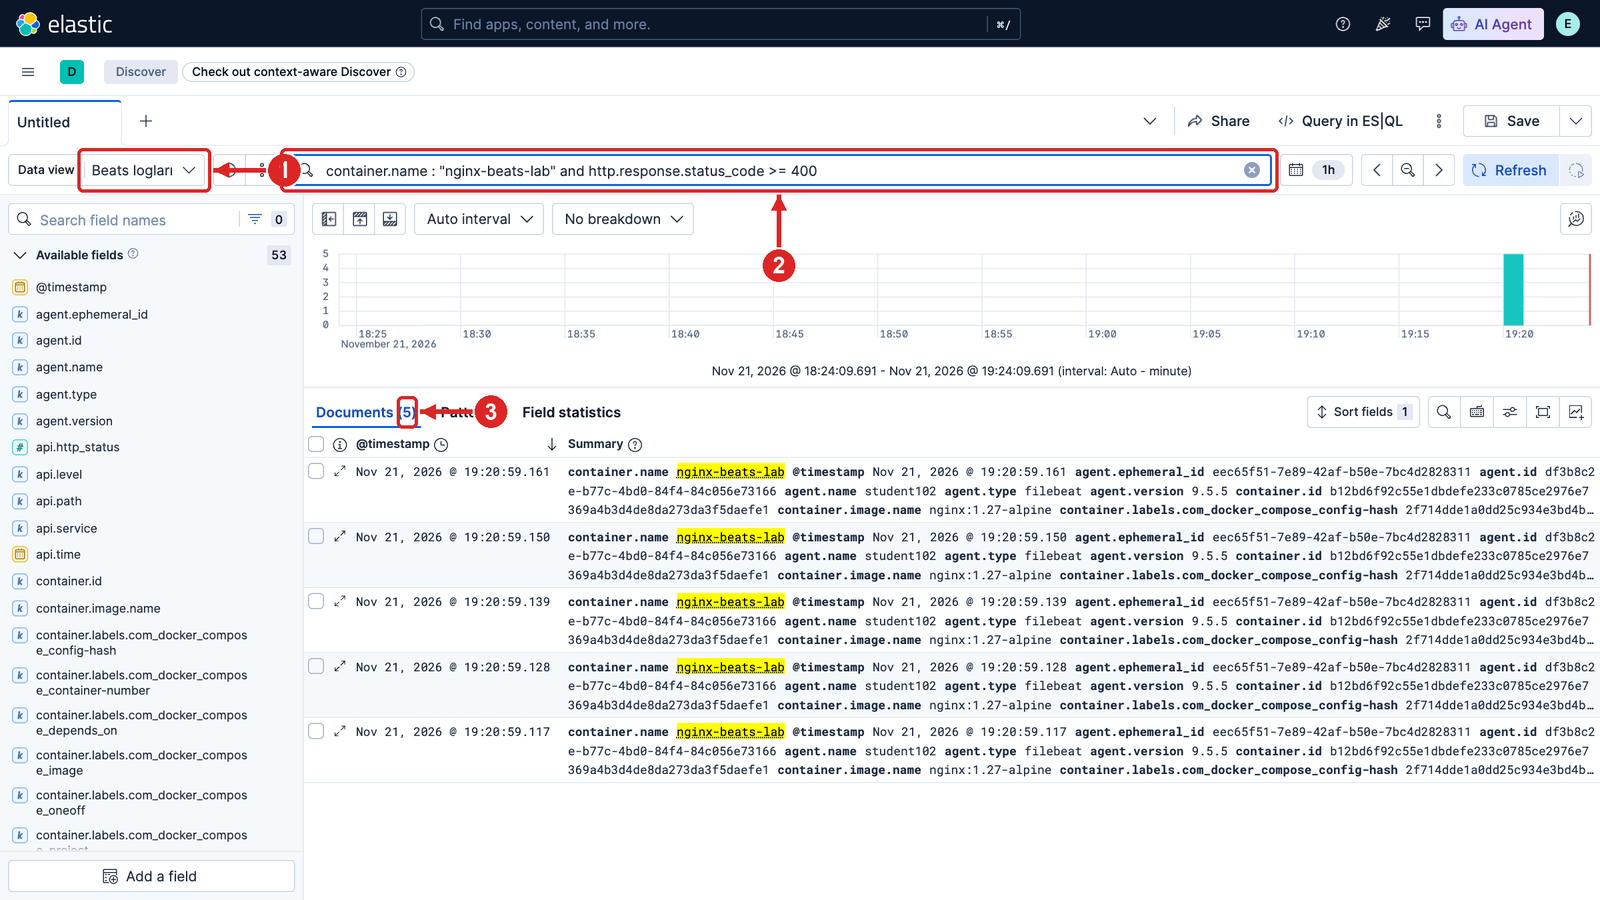
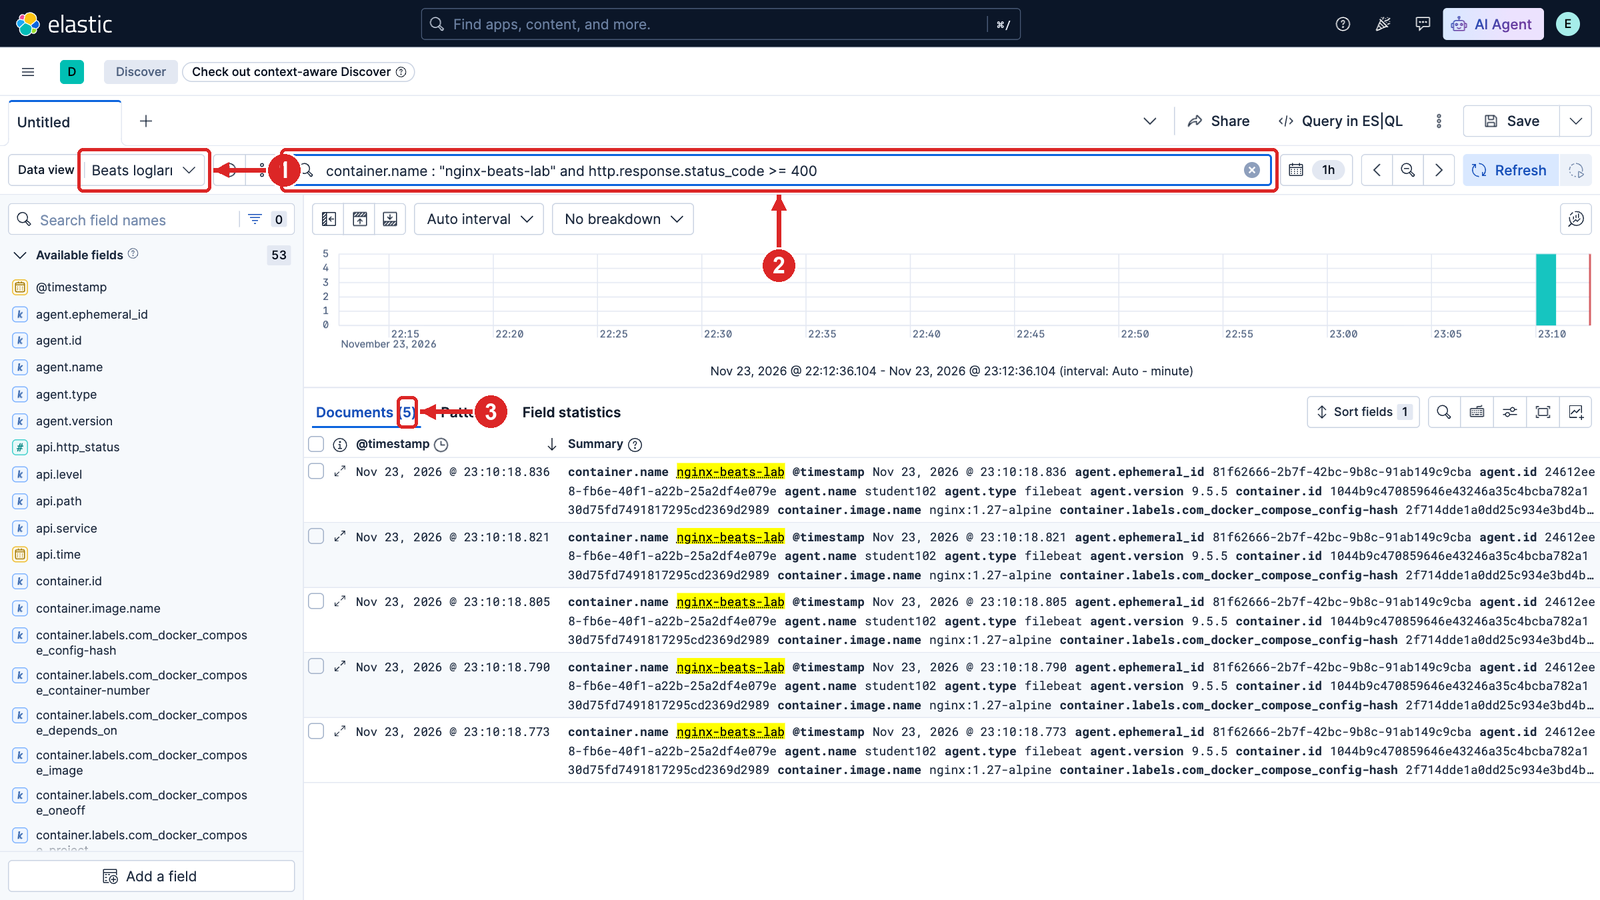
docs+test(LAB-10): question-led steps, short concept bullets
- "Bu lab ne öğretiyor?" as four bold bullets; Kavramlar table -> bullets (Beat, Filebeat registry, Metricbeat
  modules, input/processor/output, Beat vs Logstash)
- Ön Koşullar: "önce kurulu olmalı" / "önceki labı atladıysanız"
- Each step opens with "Soru: ...?"; before/after labels on step 3; explanations as bold bullets
- Commands unchanged (komut denetimi AYNI, 21 blocks); numbers unchanged (nginx 21/5, api 11/3, 404 -> 5)

Test (34.141.96.128, 9.5.5, base af68eae): teardown -> README runner (all blocks before Temizlik, APT box included)
PASS=16 FAIL=0; UI flow lab10: Discover "Beats logları", KQL 404 query -> 5 documents; link_kontrol 0.
Lab left running on the server.

diff --git a/labs/LAB-10-filebeat-metricbeat/README.md b/labs/LAB-10-filebeat-metricbeat/README.md
@@ -8,13 +8,13 @@
 
 ## Bu lab ne öğretiyor?
 
-Bir sunucuda loglar dosyalara (`/var/log/auth.log`), container logları Docker'ın dosyalarına, CPU ve
-bellek bilgisi ise çekirdeğe dağılmıştır. "Hangi container 404 üretiyor, o sırada hangisi en çok bellek
-kullanıyor?" sorusu için bunların tek yerde, field'lara ayrılmış hâlde olması gerekir.
+"Hangi container 404 üretiyor, o sırada hangisi en çok bellek kullanıyor?" sorusu için dosyalara ve çekirdeğe
+dağılmış log ve metriklerin tek yerde, field'lara ayrılmış hâlde olması gerekir:
 
-Bu labda Filebeat host'un oturum logunu ve iki demo servisin container loglarını, Metricbeat host ve
-container metriklerini toplayacak. Nginx satırını Filebeat'in kendisinde field'lara ayıracak, sonucu
-Discover'da tek sorguyla bulacağız.
+- **Filebeat:** host'un `auth.log`'unu ve iki demo servisin container loglarını toplamak
+- **Processor'lar:** nginx satırını Filebeat'te field'lara ayırmak (`dissect`), container adını eklemek
+- **Metricbeat:** host ve container CPU/bellek metrikleri
+- **Discover:** 404 üreten istekleri tek sorguyla bulmak
 
 ![Filebeat ve Metricbeat ile sunucudan log ve metrik toplama](../../assets/infographics/20-beats-log-metrik.png)
 
@@ -22,9 +22,9 @@ Discover'da tek sorguyla bulacağız.
 
 ## Ön Koşullar
 
-- LAB-01 ana cluster'ı çalışıyor. Önceki labları atladıysanız da lab çalışır; veriyi bu labın kendi
-  container'ları üretir.
-- `127.0.0.1:8081` ve `127.0.0.1:3001` boş olmalı. Dört container birlikte yaklaşık 700 MB RAM kullanır.
+- Önce kurulu olmalı: LAB-01 ana cluster'ı. `127.0.0.1:8081` ve `127.0.0.1:3001` boş olmalı; dört container
+  birlikte yaklaşık 700 MB RAM kullanır.
+- Önceki labı atladıysanız: sorun değil; veriyi bu labın kendi container'ları üretir.
 
 ```bash
 cd ~/elastic/labs/LAB-10-filebeat-metricbeat
@@ -32,16 +32,13 @@ cd ~/elastic/labs/LAB-10-filebeat-metricbeat
 
 ---
 
-## Kavramlar: Beats ne toplar, nereye yazar?
+## Kavramlar
 
-| Beat | Ne okur | Bu labda |
-|---|---|---|
-| Filebeat | Log dosyaları (satır satır), kaldığı yeri `registry`'de tutar | `auth.log` ve Docker container logları |
-| Metricbeat | Modüllerle sistem ve servis metrikleri, belirli aralıkla | `system` (CPU, bellek, disk, süreç) ve `docker` |
-
-Beat bir **input** (ne okunacak), **processor**'lar (olay yazılmadan önce ne değişecek) ve bir **output**'tan
-oluşur. Basit ayrıştırma (`dissect`, JSON çözme) Beat'te yapılabilir; grok, birden çok desen ve olayları
-farklı hedeflere yönlendirme gerekiyorsa Logstash kullanılır: Beat'te grok processor'ı yoktur ve Beat tek bir output'a yazar.
+- **Beat:** tek işe odaklı, hafif veri toplayıcı; veriyi okuduğu makinede çalışır ve Elasticsearch'e (ya da Logstash'e) yazar
+- **Filebeat:** log dosyalarını satır satır okur; kaldığı yeri `registry`'de tutar, kapanıp açılınca aynı satırı iki kez göndermez
+- **Metricbeat:** modüllerle (`system`, `docker`…) metrikleri belirli aralıkla (`period`) ölçer
+- **Input · processor · output:** ne okunacak · olay yazılmadan önce ne değişecek · nereye yazılacak
+- **Beat mi Logstash mı:** basit ayrıştırma (`dissect`, JSON çözme) Beat'te yapılır; grok, birden çok desen ya da olayları farklı hedeflere yönlendirme gerekirse Logstash (Beat'te grok yok, tek output var)
 
 ---
 
@@ -98,9 +95,9 @@ farklı hedeflere yönlendirme gerekiyorsa Logstash kullanılır: Beat'te grok p
 
 ### 1. Index şablonları
 
-Beats'in kendi şablonu yüzlerce field içerir ve data stream ister. Burada iki küçük şablonu biz
-kuruyoruz (`setup.template.enabled: false`): metin field'ları `keyword` olur, yalnız `message` aranabilir
-metindir.
+**Soru: Beat'in yazacağı index'lerin mapping'ini kim belirler?** Beats'in kendi şablonu yüzlerce field içerir ve
+data stream ister. Burada iki küçük şablonu biz kuruyoruz (`setup.template.enabled: false`): metin field'ları
+`keyword` olur, yalnız `message` aranabilir metindir.
 
 Kibana › Dev Tools'a yapıştırın:
 
@@ -139,6 +136,8 @@ PUT _index_template/beats-metric
 
 ### 2. Demo servisleri ve Filebeat'i başlatın
 
+**Soru: Container logları Elasticsearch'e nasıl gelir?** İki demo servisi (nginx, API) ve Filebeat'i başlatın:
+
 ```bash
 docker compose up -d nginx api filebeat
 timeout 120 bash -c 'until curl -s -o /dev/null 127.0.0.1:3001/api/pay && curl -s -o /dev/null 127.0.0.1:8081/; do printf .; sleep 2; done'; echo " servisler hazır"
@@ -150,8 +149,8 @@ Beklenen çıktı:
 . servisler hazır
 ```
 
-Servislere sabit sayıda istek atın; betik ayrıca host'un `auth.log`'una 5 deneme satırı yazar. `RUN`
-bu koşunun etiketidir; Adım 4'te satırları onunla bulacağız:
+**Trafik üretin:** betik servislere sabit sayıda istek atar ve host'un `auth.log`'una 5 deneme satırı yazar.
+`RUN` bu koşunun etiketidir; Adım 4'te satırları onunla bulacağız:
 
 ```bash
 export RUN=$(date +%H%M%S)
@@ -168,8 +167,8 @@ Beklenen çıktı:
   auth.log: 5 satir (etiket beats-lab-194014)
 ```
 
-Filebeat dosyaları birkaç saniyede bir tarar. 40 isteğin hepsi (betiğin 38'i ve hazır olma kontrolünün
-2'si) Elasticsearch'e gelene kadar bekleyin:
+**Bekleyin:** Filebeat dosyaları birkaç saniyede bir tarar. 40 isteğin hepsi (betiğin 38'i ve hazır olma
+kontrolünün 2'si) Elasticsearch'e gelene kadar bekleyin:
 
 ```bash
 timeout 120 bash -c 'until [ "$(curl -s -u elastic:"DevOps2026!" "http://127.0.0.1:9200/beats-log-docker-*/_count?q=http.response.status_code:*%20OR%20api.http_status:*" | jq .count)" -ge 40 ]; do printf .; sleep 3; done'; echo
@@ -184,11 +183,13 @@ beats-log-docker-2026.11.21
 beats-log-sistem-2026.11.21
 ```
 
-Index adlarındaki tarih sizde farklıdır.
+- **İki index:** container logları `beats-log-docker-*`, host logu `beats-log-sistem-*`; tarih sizde farklıdır.
 
 ### 3. Önce ve sonra: nginx satırı
 
-Docker'ın diske yazdığı ham satır (Docker'ın dosyaları root'a aittir):
+**Soru: Filebeat ham satırı nasıl field'lara ayırdı?**
+
+**Önce:** Docker'ın diske yazdığı ham satır (Docker'ın dosyaları root'a aittir, `sudo` gerekir):
 
 ```bash
 ID=$(docker inspect -f '{{.Id}}' nginx-beats-lab)
@@ -201,8 +202,9 @@ Beklenen çıktı:
 {"log":"172.19.0.1 - - [21/Nov/2026:16:27:30 +0000] \"GET /yok HTTP/1.1\" 404 153 \"-\" \"curl/8.5.0\" \"-\"\n","stream":"stdout","time":"2026-11-21T16:27:30.69017799Z"}
 ```
 
-Saat sizde farklıdır. Nginx her 404 için `stderr`'e bir hata satırı da yazar; `grep` erişim satırını
-(`stdout`) seçer. Elasticsearch'teki document:
+- **İki satır:** nginx her 404 için `stderr`'e bir hata satırı da yazar; `grep` erişim satırını (`stdout`) seçer.
+
+**Sonra:** Elasticsearch'teki document:
 
 ```bash
 curl -s -u elastic:'DevOps2026!' 'http://127.0.0.1:9200/beats-log-docker-*/_search?q=url.path:%22/yok%22&size=1' \
@@ -221,10 +223,10 @@ Beklenen çıktı:
 | Dosya adındaki container id | `container.name: nginx-beats-lab` | `add_docker_metadata` |
 | `GET`, `/yok`, `404` | `http.request.method`, `url.path`, `http.response.status_code` (sayı) | `dissect` |
 
-`172.19.0.1` Docker ağının geçidi: istek host'tan port yönlendirmesiyle geldi.
+- **`172.19.0.1`:** Docker ağının geçidi; istek host'tan port yönlendirmesiyle geldi.
 
-API container'ı zaten JSON yazdığı için `decode_json_fields` satırı `api.*` field'larına açar. Servis
-başına durum kodları:
+**API logu:** API container'ı zaten JSON yazdığı için `decode_json_fields` satırı `api.*` field'larına açar.
+Servis başına durum kodları:
 
 ```bash
 curl -s -u elastic:'DevOps2026!' 'http://127.0.0.1:9200/beats-log-docker-*/_search?size=0' -H 'Content-Type: application/json' \
@@ -238,12 +240,12 @@ Beklenen çıktı:
 {"nginx":{"200":21,"404":5},"api":{"200":11,"500":3}}
 ```
 
-Betiğin 20 ve 10 isteğine Adım 2'deki hazır olma kontrolünün birer isteği eklenir.
+- **21 ve 11:** betiğin 20 ve 10 isteğine Adım 2'deki hazır olma kontrolünün birer isteği eklenir.
 
 ### 4. Host logu: auth.log
 
-Aynı Filebeat host'un `auth.log` dosyasını da okur. Bu koşunun 5 satırı index'e düşene kadar bekleyip
-dosyadaki sıralarıyla (`log.offset`) gösterin:
+**Soru: Host'un kendi log dosyası da toplanıyor mu?** Aynı Filebeat host'un `auth.log` dosyasını da okur. Bu
+koşunun 5 satırı index'e düşene kadar bekleyip dosyadaki sıralarıyla (`log.offset`) gösterin:
 
 ```bash
 timeout 60 bash -c "until [ \"\$(curl -s -u elastic:'DevOps2026!' 'http://127.0.0.1:9200/beats-log-sistem-*/_count?q=message:%22beats-lab-$RUN%22' | jq .count)\" -ge 5 ]; do printf .; sleep 2; done"; echo
@@ -262,12 +264,14 @@ Beklenen çıktı:
 <host> | 2026-11-21T19:40:14.640656+03:00 <host> beats-lab-194014: deneme oturumu 5
 ```
 
-`host.name` ve satırdaki ad sunucunuzun adıdır; saat ve etiket sizde farklıdır. Filebeat dosyayı baştan okur;
-index'te sunucunun eski oturum kayıtları (SSH girişleri, `sudo` kullanımı) ve labı daha önce yaptıysanız
-eski deneme satırları da vardır. Filebeat kapanıp açılırsa `registry` sayesinde
-kaldığı yerden devam eder; aynı satırı iki kez göndermez.
+- **`host.name`:** sunucunuzun adı; saat ve etiket sizde farklıdır.
+- **Eski satırlar da var:** Filebeat dosyayı baştan okur; index'te sunucunun eski oturum kayıtları (SSH girişleri,
+  `sudo`) ve labı daha önce yaptıysanız eski deneme satırları da vardır.
+- **`registry`:** Filebeat kapanıp açılırsa kaldığı yerden devam eder; aynı satırı iki kez göndermez.
 
 ### 5. Metricbeat: host ve container metrikleri
+
+**Soru: Hangi container en çok bellek kullanıyor?** Metricbeat'i başlatın; ilk bellek ölçümleri gelene kadar bekleyin:
 
 ```bash
 docker compose up -d metricbeat
@@ -280,7 +284,7 @@ Beklenen çıktı:
 .....
 ```
 
-En çok bellek kullanan üç container, ES|QL ile:
+**En çok bellek kullanan üç container**, ES|QL ile:
 
 ```http
 POST _query?format=txt
@@ -297,12 +301,13 @@ Beklenen çıktı:
 62             |filebeat-beats-lab 
 ```
 
-Değerler sizde farklıdır; Elasticsearch genellikle en üsttedir. Host tarafında aynı index'te
-`system.cpu.total.norm.pct` (CPU) ve `system.memory.actual.used.pct` (bellek) field'ları 10 saniyede bir gelir.
+- **Değerler sizde farklıdır;** Elasticsearch genellikle en üsttedir.
+- **Host metrikleri:** aynı index'te `system.cpu.total.norm.pct` (CPU) ve `system.memory.actual.used.pct` (bellek)
+  10 saniyede bir gelir.
 
 ### 6. Discover: 404 üreten istekler
 
-Kibana adresini sunucuda hesaplayın:
+**Soru: Toplanan loglarda arayüzden nasıl ararız?** Kibana adresini sunucuda hesaplayın:
 
 ```bash
 IP=$(curl -s https://api.ipify.org); H=$(hostname -s)
@@ -315,7 +320,7 @@ Beklenen çıktı:
 Kibana: http://<IP>:5601   https://<host>-kibana.devopsatolyesi.com
 ```
 
-Log index'leri için bir data view kurun (Dev Tools):
+**Data view:** log index'leri için bir data view kurun (Dev Tools):
 
 ```http
 POST kbn:/api/data_views/data_view
@@ -331,7 +336,7 @@ container.name : "nginx-beats-lab" and http.response.status_code >= 400
 
 ![Discover: 1 Beats logları data view'ı, 2 sorgu, 3 beş 404 isteği](../../assets/screenshots/LAB-10/01-discover-404.png)
 
-Beş document gelir (3): `trafik.sh`'nin attığı `/yok` istekleri.
+- **Beş document (3):** `trafik.sh`'nin attığı `/yok` istekleri.
 
 <details>
 <summary><strong>Filebeat'i container yerine sunucuya paketle kurmak</strong></summary>
@@ -354,8 +359,8 @@ filebeat version 9.5.5 (amd64), libbeat 9.5.5 [b80bf8464fba72f582cefed91dd72909e
 ```
 
 Config `/etc/filebeat/filebeat.yml`'dir; `sudo filebeat test config` ve `sudo filebeat test output`
-ayarı ve Elasticsearch bağlantısını sınar, `sudo systemctl enable --now filebeat` servisi başlatır. Bu
-labda servisi başlatmayın: aynı dosyaları container'daki Filebeat zaten okuyor. Paketi ve config'ini
+ayarı ve Elasticsearch bağlantısını sınar, `sudo systemctl enable --now filebeat` servisi başlatır. Burada
+servisi başlatmayın: aynı dosyaları container'daki Filebeat zaten okuyor. Paketi ve config'ini
 kaldırmak için (`purge`; APT deposu tanımı kalır):
 
 ```bash
